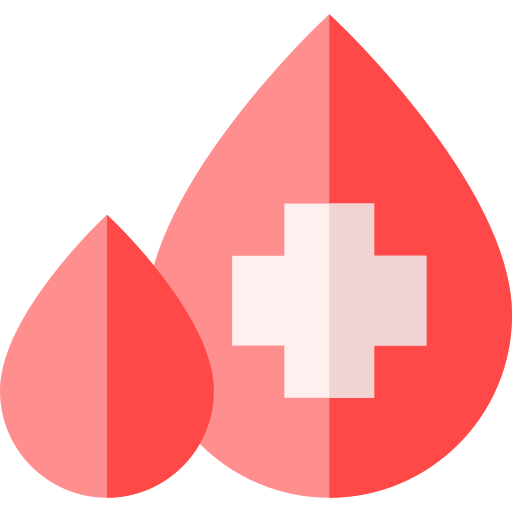
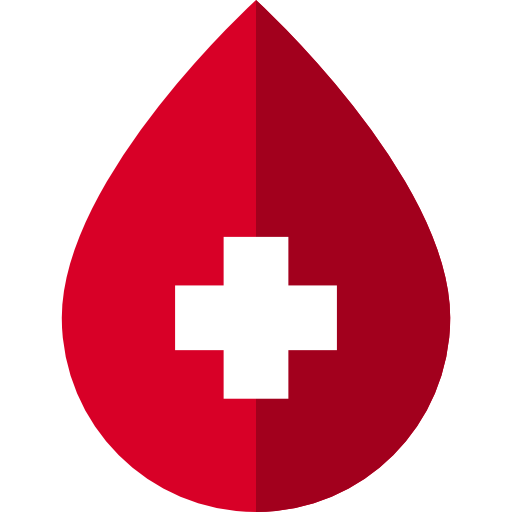
updated donor image'

diff --git a/app/blood-donor/page.tsx b/app/blood-donor/page.tsx
@@ -472,7 +472,7 @@ export default function BloodDonorPage() {
                         <Card className="p-6 rounded-[2rem] border-none shadow-lg hover:shadow-xl transition-all bg-white relative overflow-hidden">
                           <div className="flex items-center gap-4 mb-6">
                             <div className="relative w-16 h-16 rounded-2xl overflow-hidden bg-slate-100 ring-4 ring-slate-50 flex items-center justify-center">
-                              <Image src={'/blood-drop.png'} alt={donor.name} fill className="object-cover" />
+                              <Image src={'/blood-drop.png'} alt={donor.name} width={64} height={64} className="h-8 w-8" />
                             </div>
                             <div className="flex-1 min-w-0">
                               <div className="flex items-start justify-between gap-2">